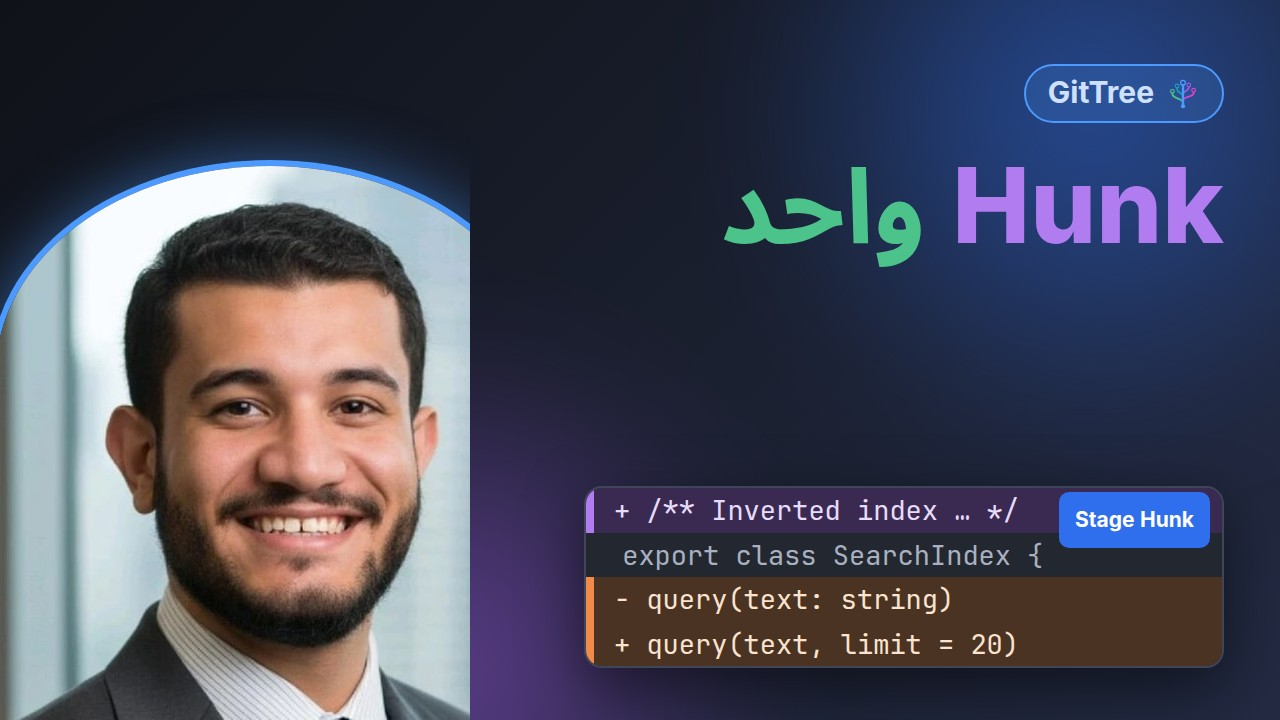
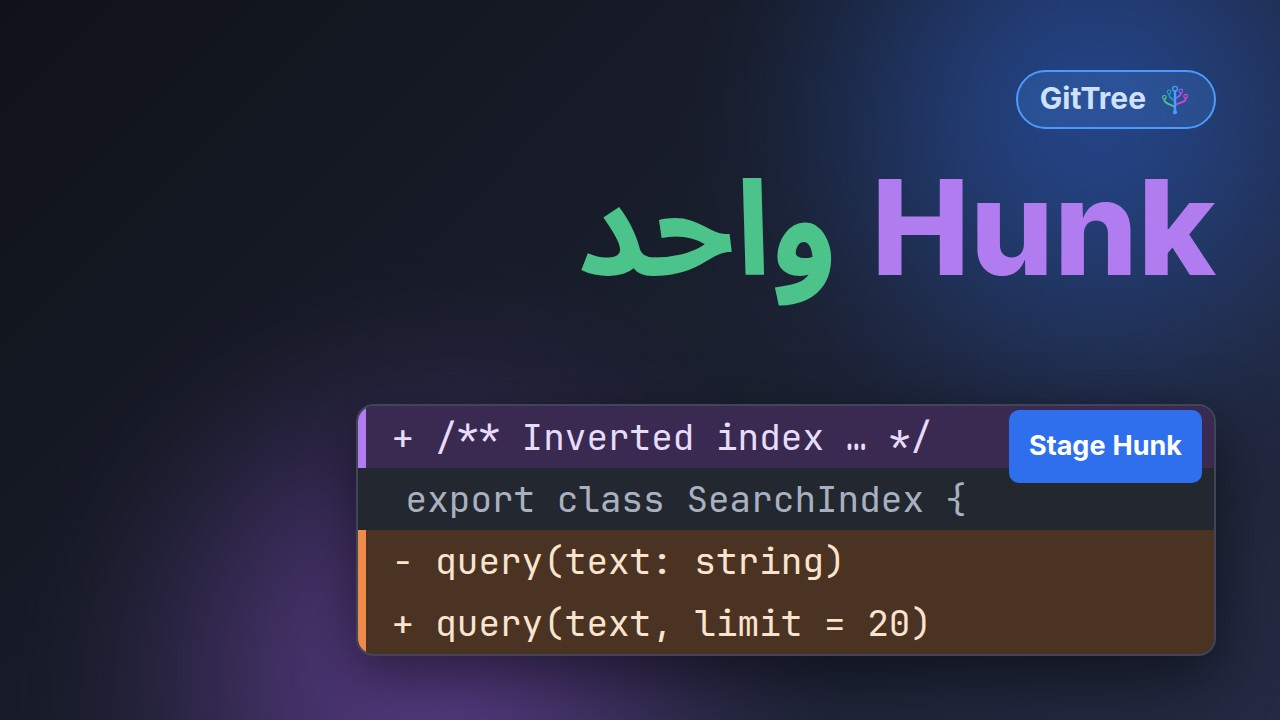
fix(course): keep the author photo to the small author bubble; thumbnails carry no photo
Claude-Session: https://claude.ai/code/session_01Md9TUF4t7AxsLqUrYPm4aw

diff --git a/course/curriculum/02-daily-workflow/stage-a-single-hunk/thumbnail/thumbnail.html b/course/curriculum/02-daily-workflow/stage-a-single-hunk/thumbnail/thumbnail.html
@@ -5,23 +5,20 @@ body::before { display: none; }
 .glow { position: absolute; width: 700px; height: 700px; border-radius: 50%; filter: blur(60px); opacity: .55; }
 .g1 { background: radial-gradient(closest-side, #2f6fed, transparent); top: -240px; inset-inline-start: -160px; }
 .g2 { background: radial-gradient(closest-side, #9b59e0, transparent); bottom: -300px; inset-inline-end: 80px; }
-.photo { position: absolute; inset-inline-end: 0; bottom: 0; width: 470px; height: 640px; overflow: hidden; }
-.photo img { position: absolute; bottom: 0; inset-inline-end: -10px; width: 560px; height: 560px; object-fit: cover; border-radius: 50% 50% 0 0 / 38% 38% 0 0; border: 6px solid #4c9aff; border-bottom: 0; box-shadow: 0 0 60px rgba(76,154,255,.5); }
-.copy { position: absolute; inset-inline-start: 56px; top: 64px; width: 700px; }
+.copy { position: absolute; inset-inline-start: 64px; top: 70px; width: 1100px; }
 .badge { display: inline-flex; align-items: center; gap: 12px; font-size: 30px; font-weight: 650; color: #cfe1ff; padding: 8px 22px; border-radius: 999px; background: rgba(76,154,255,.18); border: 2px solid #4c9aff; }
 .badge img { width: 34px; height: 34px; }
-h1 { font-size: 118px; line-height: 1.02; margin-top: 30px; font-weight: 800; letter-spacing: -.03em; }
-html[lang='ar'] h1 { font-size: 104px; line-height: 1.25; letter-spacing: 0; margin-top: 22px; }
+h1 { font-size: 150px; line-height: 1.02; margin-top: 30px; font-weight: 800; letter-spacing: -.03em; }
+html[lang='ar'] h1 { font-size: 132px; line-height: 1.25; letter-spacing: 0; margin-top: 22px; }
 h1 .a { color: #b07cf0; } h1 .b { color: #4cc38a; }
-.mini { position: absolute; left: 56px; bottom: 52px; width: 640px; font-family: var(--mono); direction: ltr; font-size: 27px; line-height: 1.5; border-radius: 18px; overflow: hidden; border: 2px solid #3e4657; box-shadow: 0 20px 60px rgba(0,0,0,.5); }
-.mini div { padding: 2px 20px; white-space: pre; background: #232730; color: #a9b1c1; }
+.mini { position: absolute; left: 64px; bottom: 64px; width: 860px; font-family: var(--mono); direction: ltr; font-size: 36px; line-height: 1.5; border-radius: 18px; overflow: hidden; border: 2px solid #3e4657; box-shadow: 0 20px 60px rgba(0,0,0,.5); }
+.mini div { padding: 4px 26px; white-space: pre; background: #232730; color: #a9b1c1; }
 .mini .h1 { background: #3a2a52; color: #e8dcfb; border-inline-start: 8px solid #b07cf0; } .mini .h2 { background: #4a3322; color: #fbe3d0; border-inline-start: 8px solid #f08a4a; }
-.mini .btn { position: absolute; top: 4px; inset-inline-end: 12px; font: 700 21px var(--font); padding: 6px 16px; border-radius: 10px; background: #2f6fed; color: #fff; }
-html[dir='rtl'] .mini { left: auto; right: 56px; }
+.mini .btn { position: absolute; top: 4px; inset-inline-end: 12px; font: 700 27px var(--font); padding: 8px 20px; border-radius: 10px; background: #2f6fed; color: #fff; }
+html[dir='rtl'] .mini { left: auto; right: 64px; }
 </style></head><body data-no-presenter>
 <div class="glow g1"></div><div class="glow g2"></div>
 <div class="copy"><span class="badge"><img src="{{KIT}}/brand/mark.svg" alt="">GitTree</span><h1 data-i="title"></h1></div>
 <div class="mini"><div class="h1">+ /** Inverted index … */</div><div> export class SearchIndex {</div><div class="h2">- query(text: string)</div><div class="h2">+ query(text, limit = 20)</div><span class="btn">Stage Hunk</span></div>
-<div class="photo"><img src="{{PHOTO}}" alt=""></div>
 </body></html>
 <script>window.TEXT = { en: { title: '<span class="a">ONE</span> <span class="b">HUNK</span>' }, ar: { title: '<span class="a">Hunk</span> <span class="b">واحد</span>' } };</script>

diff --git a/course/tooling/thumbnail.py b/course/tooling/thumbnail.py
@@ -29,7 +29,7 @@ def main() -> None:
         for lang in ("en", "ar"):
             cfg = {"lang": lang, "d": 1, "presenter": None}
             inject = f'<link rel="stylesheet" href="{(scenes.KIT / "scene.css").as_uri()}"><script>window.__SCENE__={json.dumps(cfg)};</script><script src="{(scenes.KIT / "kit.js").as_uri()}"></script>'
-            page_html = html.replace("<!--KIT-->", inject).replace("{{KIT}}", scenes.KIT.as_uri()).replace("{{PHOTO}}", photo)
+            page_html = html.replace("<!--KIT-->", inject).replace("{{KIT}}", scenes.KIT.as_uri())
             tmp = ep / "thumbnail" / f".tmp-{lang}.html"
             tmp.write_text(page_html)
             page = browser.new_page(viewport={"width": 1280, "height": 720})

diff --git a/course/curriculum/02-daily-workflow/stage-a-single-hunk/metadata.ar.md b/course/curriculum/02-daily-workflow/stage-a-single-hunk/metadata.ar.md
@@ -39,6 +39,6 @@ GitTree غير تابع لأي برنامج Git آخر.
 
 **التعليق المثبّت**: `جرّب بنفسك: course/demo-repo/build.sh ~/lumen two-hunks ثم افتح المجلد في GitTree. أيّ commit قسّمته أولًا؟`
 
-**وصف الصورة المصغّرة**: صورة المحاضر على الجهة اليمنى (للاتجاه من اليمين لليسار)، وفي اليسار الفروقات بلونين وزر Stage Hunk؛ والنص: «Hunk واحد».
+**وصف الصورة المصغّرة**: الفروقات بلونين وزر Stage Hunk؛ والنص: «Hunk واحد». بلا صورة شخصية: يظهر المحاضر فقط في الدائرة الصغيرة داخل الفيديو.
 
 *أوقات الفصول مؤقتة إلى أن يُسجَّل الصوت النهائي.*

diff --git a/course/curriculum/02-daily-workflow/stage-a-single-hunk/metadata.en.md b/course/curriculum/02-daily-workflow/stage-a-single-hunk/metadata.en.md
@@ -39,6 +39,6 @@ GitTree is not affiliated with any other Git client.
 
 **Pinned comment**: `Try it yourself: course/demo-repo/build.sh ~/lumen two-hunks, then open the folder in GitTree. Which commit did you split first?`
 
-**Thumbnail brief**: left, the presenter's photo; right, a diff with two coloured hunks (purple, orange) and a "Stage Hunk" button; text "ONE HUNK" (max 3 words). Brand colours from `docs/02-design/BRAND.md`.
+**Thumbnail brief**: a diff with two coloured hunks (purple, orange) and a "Stage Hunk" button; text "ONE HUNK" (max 3 words). No photo: the author appears only in the small lecturer bubble inside the video. Brand colours from `docs/02-design/BRAND.md`.
 
 *Chapter times are placeholders until the final voice-over is recorded.*

diff --git a/course/presenter/README.md b/course/presenter/README.md
@@ -1,4 +1,5 @@
 # Presenter
 
-`profile.jpg` is the lecturer's photo, used for the on-screen bubble in every video, the thumbnails and the channel
-avatar. `presenter.yml` holds the name and title per language. The bubble's ring pulses with the voice.
+`profile.jpg` is the lecturer's photo. It is used **only** where an author is credited: the small circular bubble with
+the name plate inside each video, and the channel avatar. It is never used in thumbnails, hero images or large sections.
+`presenter.yml` holds the name and title per language. The bubble's ring pulses with the voice.
